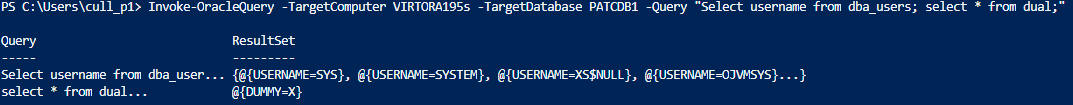
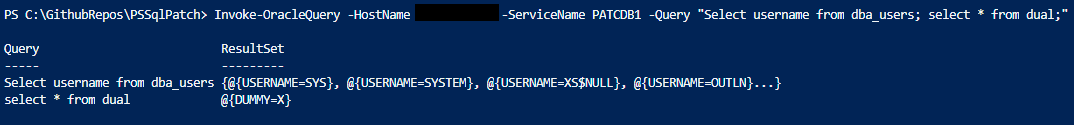
Updated parameter names
Updated parameter names to be more in line with what they represent. "TargetComputer" is now "HostName". "TargetDatabase" is now "ServiceName".
Updated screenshots and examples to reflect the new naming.

diff --git a/README.md b/README.md
@@ -1,9 +1,10 @@
 # Invoke-OracleQuery
-This is a PowerShell function to query an Oracle database on Windows, using Windows Authentication or Oracle user credentials. The user can pass a query directly, or a SQL file to run against a database.
+This is a PowerShell function to query an Oracle database from Windows, using Windows Authentication or Oracle user credentials. The user can pass a query directly, or a SQL file to run against a database. It works for databases hosted on both Windows and Linux servers.
 
-The function uses the ODP.NET dll files on the localhost if they exist. If they aren't on the localhost, it connects to the target server and uses the dll files on there to access the database.
+The function uses the ODP.NET dll files on the localhost if they exist. If they aren't on the localhost, it connects to the target server and uses the dll files on there to access the database. 
+*Note - this is only possible if the target server is a Windows machine. If it's a Linux server you need to have ODP.NET installed locally.*
 
-By default, it uses the current user credentials to connect to remote servers as needed, and connects to the database as SYSDBA as the current user using Windows Authentication, similar to "connect /@DB as sysdba". Alternatively, you can specify the credentials to connect to the TargetComputer with "TargetCredential", and/or you can set the database user to connect with using "DatabaseCredential".
+By default, it uses the current user credentials to connect to remote servers if needed, and connects to the database as SYSDBA as the current user using Windows Authentication, similar to "connect /@DB as sysdba". Alternatively, you can specify the credentials to connect to the HostName with "TargetCredential", and/or you can set the database user to connect with using "DatabaseCredential".
 
 The function gets an Oracle Home on the TargetServer, and gets the Oracle.ManagedDataAccess.dll from there. This means there are no external dependencies. 
 
@@ -15,7 +16,7 @@ If there is only one query, the function returns the resultset in a PSObject as 
 The below query demonstrates the resultset of a simple, single query passed via the Query variable.
 
 ```powershell 
-Invoke-OracleQuery -TargetComputer VIRTORA195s -TargetDatabase PATCDB1 -Query "Select username from dba_users;" 
+Invoke-OracleQuery -HostName HostServer1 -ServiceName PATCDB1 -Query "Select username from dba_users;" 
 ```
 ##### Output
 ![alt text](./ExampleScreenshots/SimpleSelect.png "Simple Query example")
@@ -25,7 +26,7 @@ Invoke-OracleQuery -TargetComputer VIRTORA195s -TargetDatabase PATCDB1 -Query "S
 The below query demonstrates the resultset of a multiple queries passed via the Query variable. Note the Query and ResultSet properties.
 
 ```powershell 
-Invoke-OracleQuery -TargetComputer VIRTORA195s -TargetDatabase PATCDB1 -Query "Select username from dba_users; select * from dual;" 
+Invoke-OracleQuery -HostName HostServer1 -ServiceName PATCDB1 -Query "Select username from dba_users; select * from dual;" 
 ```
 ##### Output
 ![alt text](./ExampleScreenshots/MultipleQueries.png "Multiple Query example")
@@ -34,7 +35,7 @@ Invoke-OracleQuery -TargetComputer VIRTORA195s -TargetDatabase PATCDB1 -Query "S
 The below query demonstrates using a SQL file to query the database. We store the result in the $SqlFileOutput parameter, and then access the result set of the second query in the file.
 
 ```powershell 
-$SqlFileOutput = Invoke-OracleQuery -TargetComputer VIRTORA195s -TargetDatabase PATCDB1 -SqlFile "C:\test\OracleQuery.sql"
+$SqlFileOutput = Invoke-OracleQuery -HostName HostServer1 -ServiceName PATCDB1 -SqlFile "C:\test\OracleQuery.sql"
 $SqlFileOutput[1].ResultSet | Format-Table
 ```
 ##### Output
@@ -54,10 +55,14 @@ The function also returns error and success messages. This works in single queri
 The function also supports different Credentials. The TargetCredential is used to connect to the target machine, and the DatabaseCredential is used to connect to the database. TargetCredential defaults to current user, and if DatabaseCredential is not passed it connects as sysdba via Windows Authentication. 
 ```powershell 
 $TargetCredential = Get-Credential 
-$DatabaseCredential = Get-Credential -UserName "system"
-Invoke-OracleQuery -TargetComputer VIRTORA195s -TargetDatabase PATCDB1 -Query "Select username from dba_users;" -TargetCredential $TargetCredential -DatabaseCredential $DatabaseCredential
+$DatabaseCredential = Get-Credential -UserName "system" -Message "Enter the user password"
+Invoke-OracleQuery -HostName HostServer1 -ServiceName PATCDB1 -Query "Select username from dba_users;" -TargetCredential $TargetCredential -DatabaseCredential $DatabaseCredential
 ```
-
+To connect as sysdba, you can do so by using;
+```powershell 
+$DatabaseCredential = Get-Credential -UserName "system" -Message "Enter the user password"
+Invoke-OracleQuery -HostName HostServer1 -ServiceName PATCDB1 -Query "Select username from dba_users;" -TargetCredential $TargetCredential -DatabaseCredential $DatabaseCredential -AsSysdba
+````
 ## Argument Completer
-The function also has an ArgumentCompleter for the TargetDatabase parameter. It does this by running "lsnrctl status" on the target, and parsing the result to contain only service names. Example screenshot is below;
+The function also has an ArgumentCompleter for the ServiceName parameter. It does this by running "lsnrctl status" on the target, and parsing the result to contain only service names. Example screenshot is below;
 ![alt text](./ExampleScreenshots/ArgumentCompleter.png "ArgumentCompleter example")
